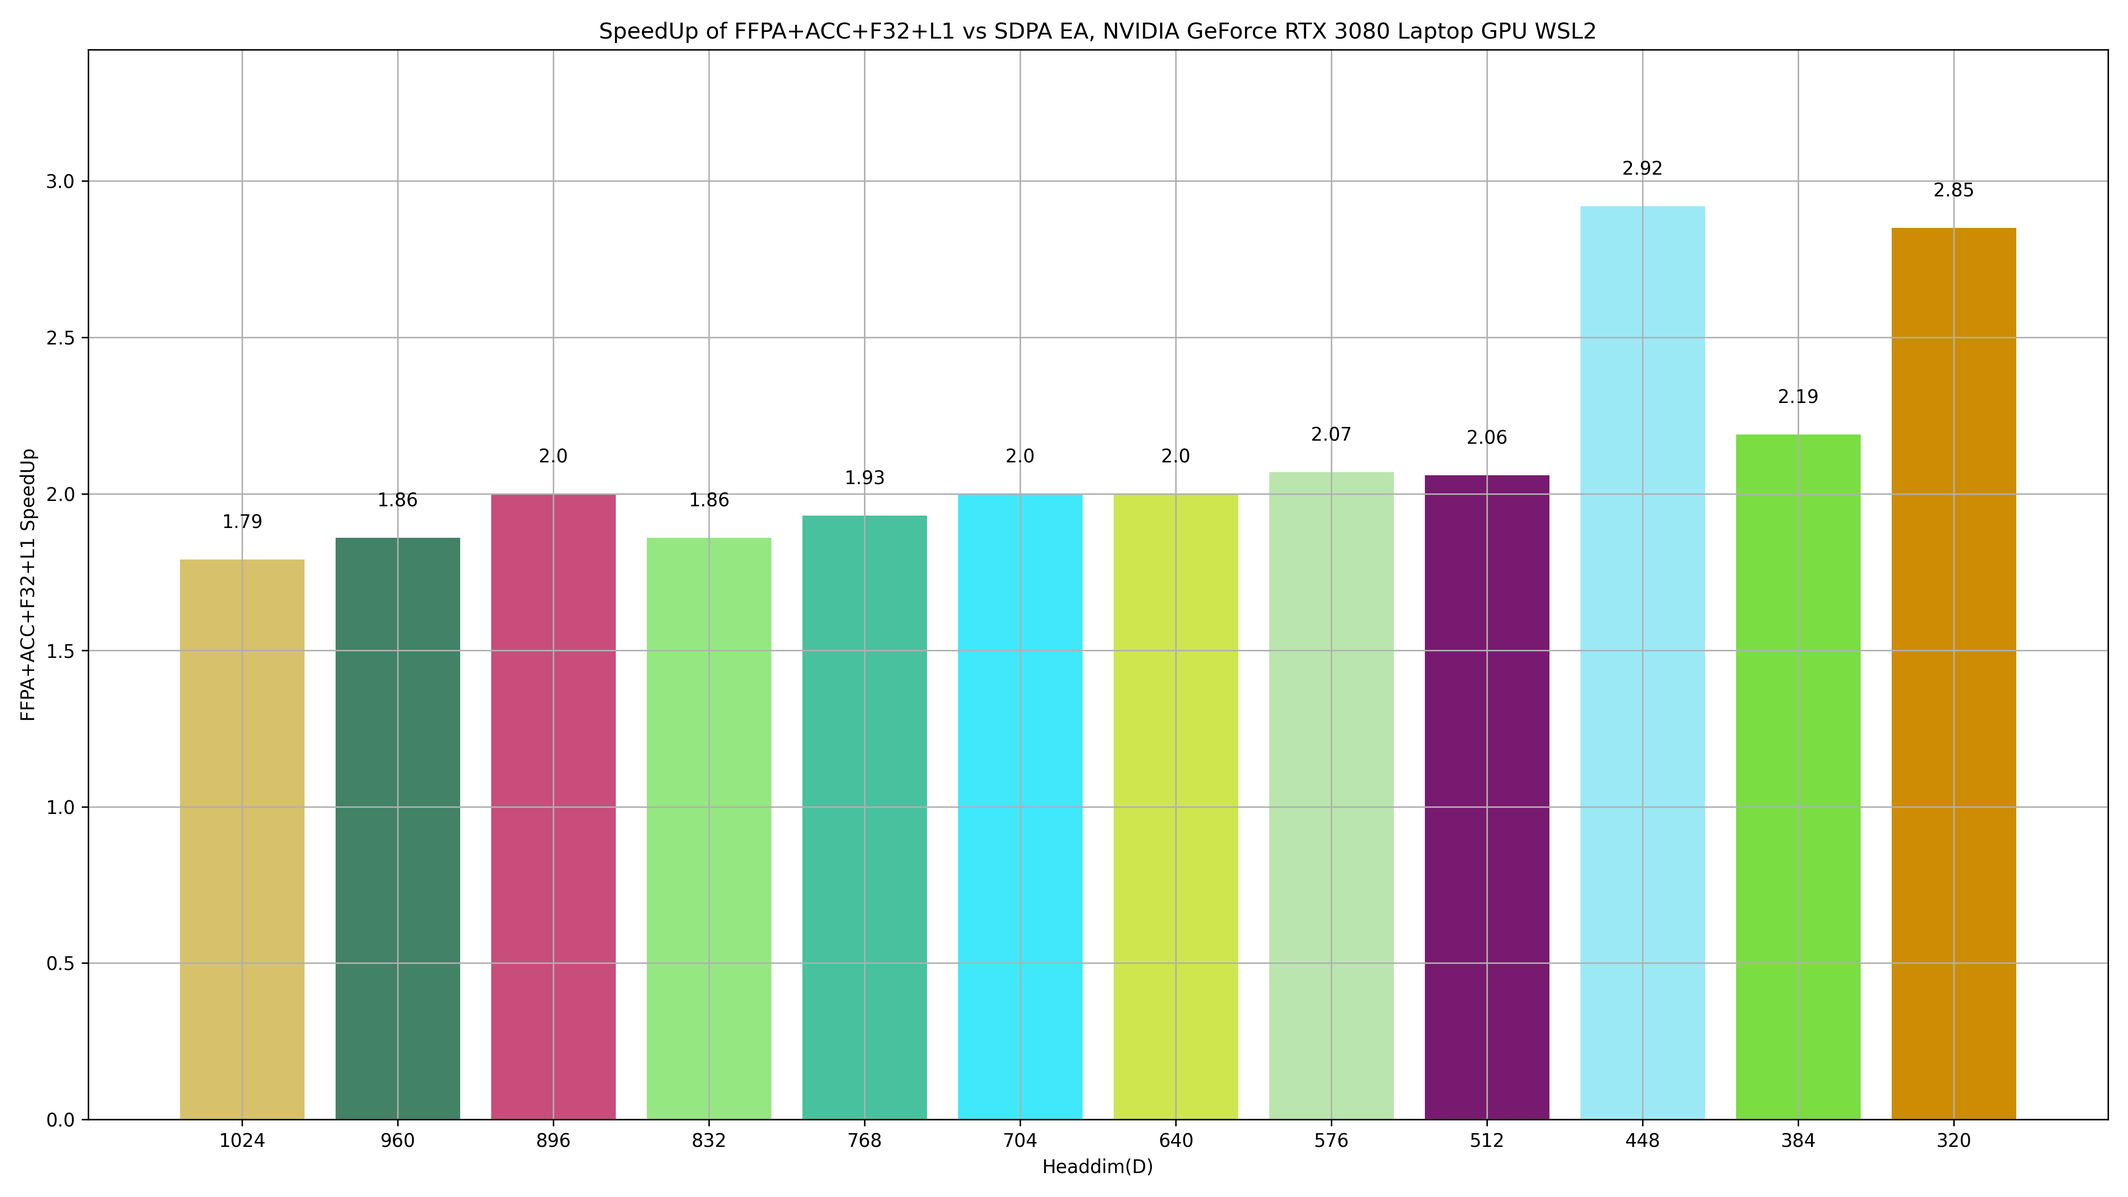
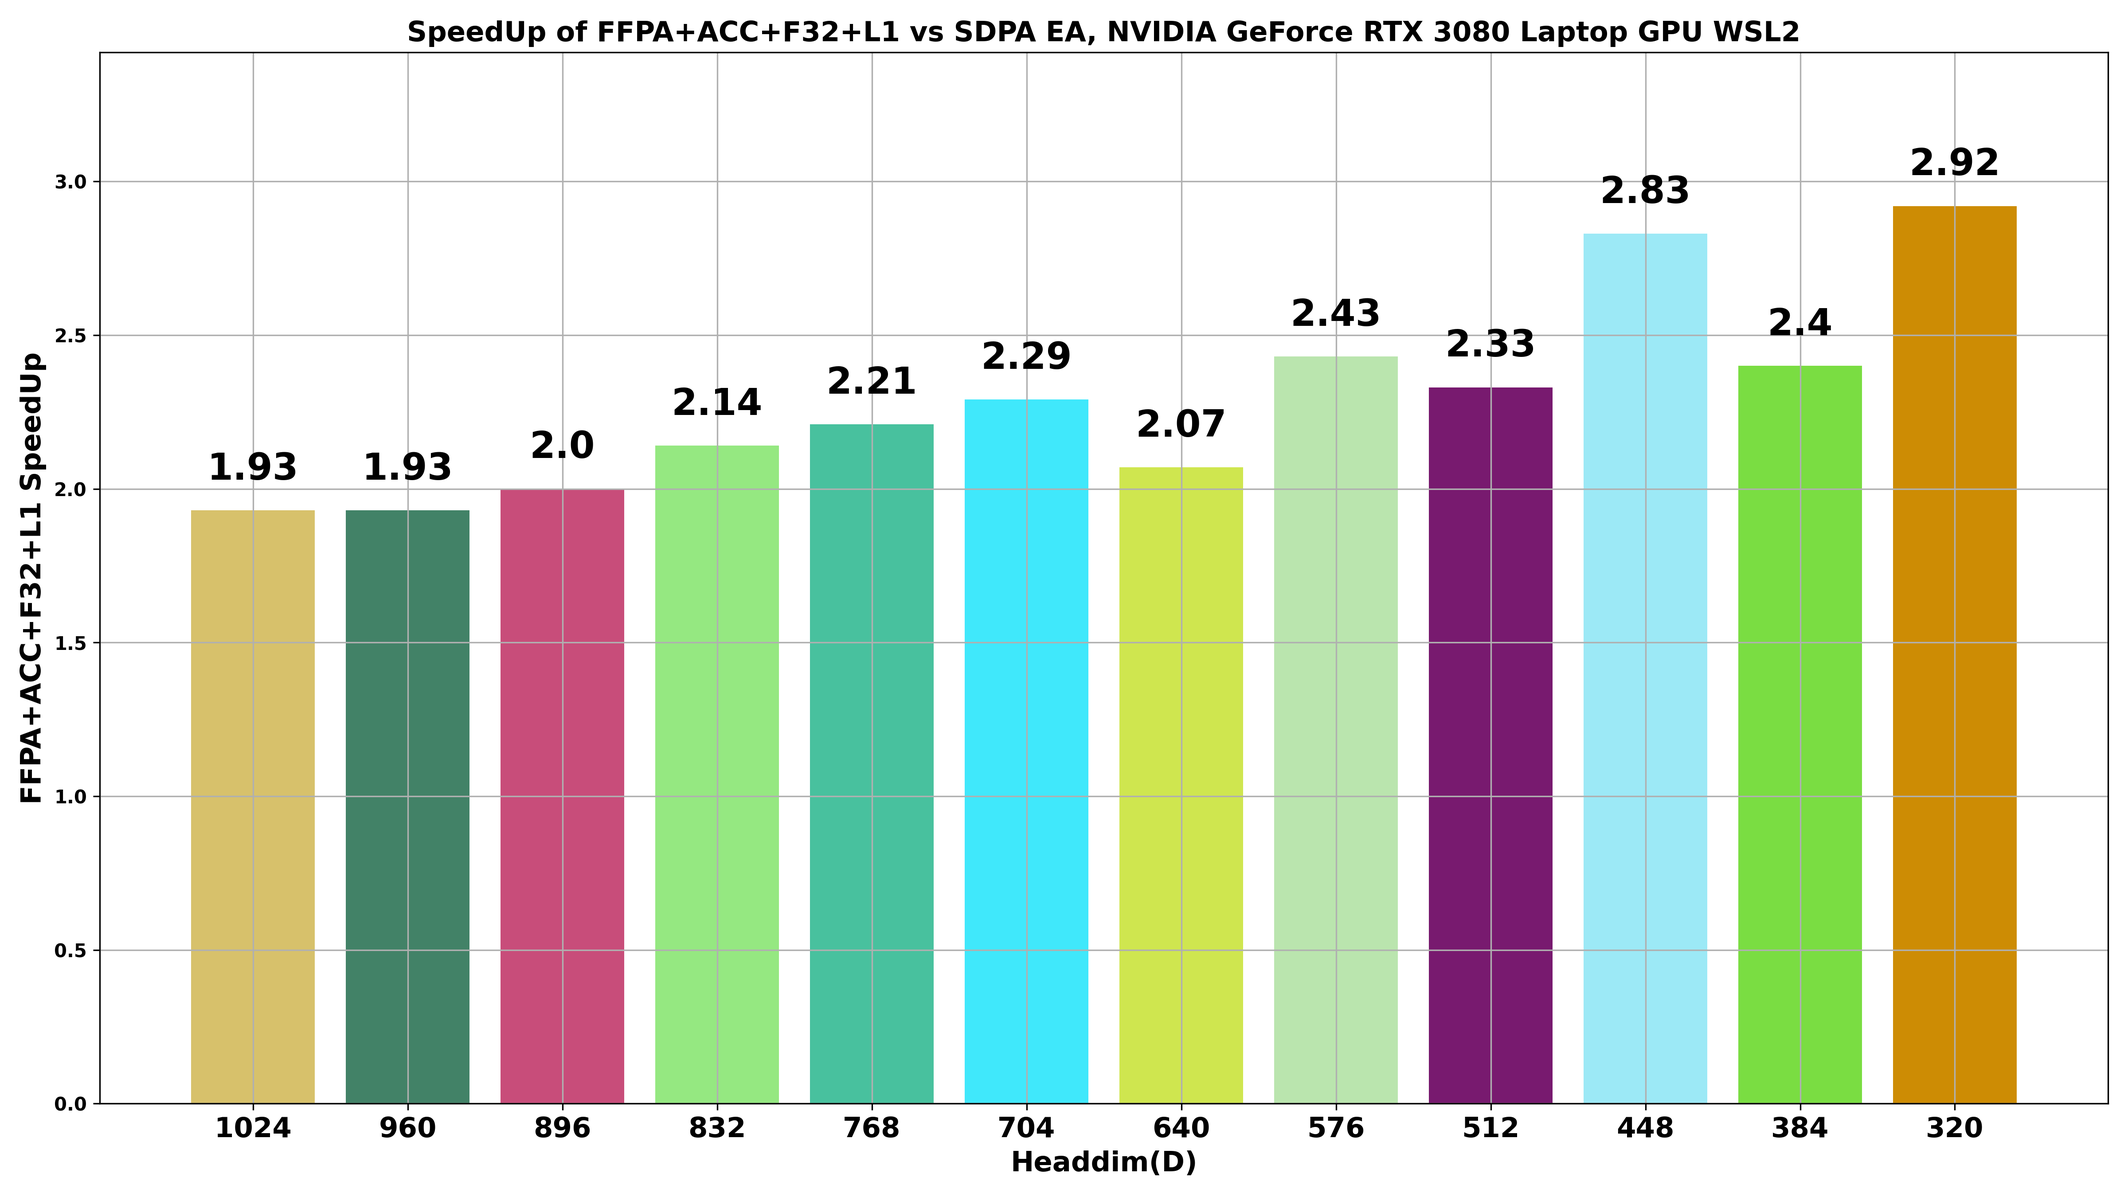
[bench] update perf plots for qkv swizzle (#38)
* Update README.md

* Update README.md

* Update README.md

* Update test.py

* Update README.md

* Update README.md

* Update README.md

* Update README.md

* Update test.py

* update perf plots

* update perf plots

diff --git a/env.py b/env.py
@@ -4,7 +4,7 @@ import torch
 
 
 class ENV(object):
-    # ENVs for pyffpa compiling
+    # ENVs for FFPA kernels compiling
 
     # Project dir, path to faster-prefill-attention
     PROJECT_DIR = os.path.dirname(os.path.abspath(__file__))
@@ -41,22 +41,30 @@ class ENV(object):
     ENABLE_FFPA_PREFETCH_QKV = bool(int(os.environ.get("ENABLE_FFPA_PREFETCH_QKV", 1)))
 
     # Enable QKV smem shared policy, default False (perfered for MMA & g2s overlap).
-    # Set it as True on low SRAM device.
-    ENABLE_FFPA_QKV_SMEM_SHARE = bool(int(os.environ.get("ENABLE_FFPA_QKV_SMEM_SHARE", 0)))
+    # Please, set it as True if you want to run FFPA on low SRAM device.
+    ENABLE_FFPA_QKV_SMEM_SHARE = bool(
+        int(os.environ.get("ENABLE_FFPA_QKV_SMEM_SHARE", 0))
+    )
 
     # Enable smem swizzle for Q, default True. True: bank conflicts free for Q smem
     # via swizzle; False: bank conflicts free for Q smem via padding.
-    ENABLE_FFPA_SMEM_SWIZZLE_Q = bool(int(os.environ.get("ENABLE_FFPA_SMEM_SWIZZLE_Q", 1)))
+    ENABLE_FFPA_SMEM_SWIZZLE_Q = bool(
+        int(os.environ.get("ENABLE_FFPA_SMEM_SWIZZLE_Q", 1))
+    )
 
     # Enable smem swizzle for K, default True. True: bank conflicts free for K smem
     # via swizzle; False: bank conflicts free for K smem via padding.
-    ENABLE_FFPA_SMEM_SWIZZLE_K = bool(int(os.environ.get("ENABLE_FFPA_SMEM_SWIZZLE_K", 1)))
+    ENABLE_FFPA_SMEM_SWIZZLE_K = bool(
+        int(os.environ.get("ENABLE_FFPA_SMEM_SWIZZLE_K", 1))
+    )
 
-    # Enable smem swizzle for V, default True. True: bank conflicts free for V smem
-    # via swizzle; False: bank conflicts free for V smem via padding. 
-    # FIXME(DefTruth):swizzle V seems can not get good performance. why? Will enable 
-    # it by default untill I have fixed the performance issue.
-    ENABLE_FFPA_SMEM_SWIZZLE_V = bool(int(os.environ.get("ENABLE_FFPA_SMEM_SWIZZLE_V", 1)))
+    # Enable smem swizzle for V, now default True. True: bank conflicts free for V smem
+    # via swizzle; False: bank conflicts free for V smem via padding. FIXME(DefTruth):
+    # swizzle V seems can not get good performance. why? Will enable it by default untill
+    # I have fixed the performance issue. (Fixed)
+    ENABLE_FFPA_SMEM_SWIZZLE_V = bool(
+        int(os.environ.get("ENABLE_FFPA_SMEM_SWIZZLE_V", 1))
+    )
 
     @classmethod
     def project_dir(cls):
@@ -93,19 +101,19 @@ class ENV(object):
     @classmethod
     def enable_prefetch_qkv(cls):
         return cls.ENABLE_FFPA_PREFETCH_QKV
-    
+
     @classmethod
     def enable_qkv_smem_share(cls):
         return cls.ENABLE_FFPA_QKV_SMEM_SHARE
-    
+
     @classmethod
     def enable_smem_swizzle_q(cls):
         return cls.ENABLE_FFPA_SMEM_SWIZZLE_Q
-    
+
     @classmethod
     def enable_smem_swizzle_k(cls):
         return cls.ENABLE_FFPA_SMEM_SWIZZLE_K
-    
+
     @classmethod
     def enable_smem_swizzle_v(cls):
         return cls.ENABLE_FFPA_SMEM_SWIZZLE_V
@@ -141,7 +149,7 @@ class ENV(object):
                     f"{name:<35}: {str(value):<5} -> command:"
                     f" export {name}={int(value)}"
                 )
-            except:
+            except Exception:
                 print(f"{name:<35}: {value}")
 
         pretty_print_line("FFPA-ATTN ENVs")

diff --git a/tests/test.py b/tests/test.py
@@ -394,26 +394,25 @@ def plot_speedup_bar(
 
     _ = plt.subplots(figsize=(16, 9))[1]  # fig, axs
     plt.subplots_adjust(left=0.04, right=0.99, top=0.95, bottom=0.07)
-    # The x-axis coordinates of the bar chart
     x = range(len(speedup))
     # Plot the bar chart, setting a different color for each bar
     random.seed(0)
     for i, value in enumerate(speedup):
         random_color = (random.random(), random.random(), random.random())
         plt.bar(i, value, color=random_color)
-    # Add the x-axis label
-    plt.xlabel("Headdim(D)")
-    plt.xticks(x, headdim)
-    # Add the y-axis label
-    plt.ylabel(f"{extra_tag.upper()} SpeedUp")
-    # Add the title
-    plt.title(f"SpeedUp of {extra_tag.upper()} vs SDPA EA, {ENV.get_device_name()}")
+    plt.xlabel("Headdim(D)", fontsize=15, fontweight="bold")
+    plt.xticks(x, headdim, fontsize=15, fontweight="bold")
+    plt.ylabel(f"{extra_tag.upper()} SpeedUp", fontsize=15, fontweight="bold")
+    plt.title(
+        f"SpeedUp of {extra_tag.upper()} vs SDPA EA, {ENV.get_device_name()}",
+        fontsize=15,
+        fontweight="bold",
+    )
     # Set the range of the y-axis, adjusted according to the data
     plt.ylim(0, max(speedup) + 0.5)
-    # Add data labels on each bar
+    plt.yticks(fontweight="bold")
     for i, v in enumerate(speedup):
-        plt.text(i, v + 0.1, str(v), ha="center")
-    # Show the grid lines for easy observation
+        plt.text(i, v + 0.1, str(v), ha="center", fontsize=20, fontweight="bold")
     plt.grid(True)
     # Display the graph
     device_name = ENV.get_device_name().replace(" ", "_")
@@ -441,17 +440,25 @@ def plot_tflops(level: str = "L1"):
     ax.set_title(
         f"FFPA {level} vs SDPA EA, {ENV.get_device_name()}, "
         f"B={B}, H={H}, N={N}, Warmup={args.warmup}, "
-        f"Iters={args.iters}"
+        f"Iters={args.iters}",
+        fontsize=15,
+        fontweight="bold",
     )
-    ax.set_xlabel("Headdim(D)")
-    ax.set_ylabel("TFLOPS")
+    ax.set_xlabel("Headdim(D)", fontsize=15, fontweight="bold")
+    ax.set_ylabel("TFLOPS", fontsize=15, fontweight="bold")
     ax.grid(True)
 
     get_best_tflops()
     new_statis_info = sort_tflops_by_headdim()
 
     ax.set_xticks(np.arange(0, len(new_statis_info["headdim"]), 1))
-    ax.set_xticklabels(new_statis_info["headdim"], rotation=45, ha="right")
+    ax.set_xticklabels(
+        new_statis_info["headdim"],
+        rotation=45,
+        ha="right",
+        fontsize=15,
+        fontweight="bold",
+    )
     exclude_tags = []
     exclude_tags.append("headdim")
     exclude_tags = set(exclude_tags)
@@ -487,6 +494,9 @@ def plot_tflops(level: str = "L1"):
                 ax.plot(tflops, label=tag, linewidth=4, color="red")
             else:
                 ax.plot(tflops, label=tag, linestyle="--")
+
+    for label in ax.get_yticklabels():
+        label.set_fontweight("bold")
 
     ax.legend()
     device_name = ENV.get_device_name().replace(" ", "_")

diff --git a/README.md b/README.md
@@ -11,11 +11,11 @@
   <img src=https://img.shields.io/badge/License-GPLv3.0-turquoise.svg >
  </div>
 
-🤖[WIP] **FFPA**: Yet antother **Faster Flash Prefill Attention** with **O(1) SRAM complexity** & **O(d/4) or O(1) register complexity** for large headdim (D > 256), almost **1.5x~2x** 🎉 faster than SDPA EA with or without MMA Acc F32 on many devices: [📈L20 ~1.7x↑🎉](#L1-bench-l20), [📈 A30 ~1.5x↑🎉](#L1-bench-a30), [📈3080 ~2.5x↑🎉](#L1-bench-3080), [📈4090 ~1.8x↑🎉](#L1-bench-4090). 
+🤖[WIP] **FFPA**: Yet antother **Faster Flash Prefill Attention** with **O(1) SRAM complexity** & **O(d/4) or O(1) register complexity** for large headdim (D > 256), almost **1.5x~2x** 🎉 faster than SDPA EA with or without MMA Acc F32 on many devices: [📈L20 ~1.9x↑🎉](#L1-bench-l20), [📈 A30 ~1.8x↑🎉](#L1-bench-a30), [📈3080 ~2.9x↑🎉](#L1-bench-3080), [📈4090 ~2.1x↑🎉](#L1-bench-4090). 
 
 <div align='center'>
-  <img src='https://github.com/user-attachments/assets/7dc42fa1-a10e-453c-8e2c-befba6f12719' width="407px">
-  <img src='https://github.com/user-attachments/assets/c0443e13-94a4-4d29-8f77-e326e62a668e' width="407px">
+  <img src='https://github.com/user-attachments/assets/447e2937-f7c8-47c8-8550-8c0c71b910e6' width="407px">
+  <img src='https://github.com/user-attachments/assets/65a8d564-8fa7-4d66-86b9-e238feb86143' width="407px">
 </div> 
 
 💡NOTE: This project is still in its early dev stages and now provides some kernels and benchmarks for reference. More features will be added in the future. (Welcome to 🌟👆🏻star this repo to support me ~)
@@ -37,10 +37,10 @@
 - [📖 Installation⚙](#install)
 - [📖 Python Testing👇](#python-test)
 - [📖 FFPA L1~L3 Design💡](#ffpa-design)
-- [📈 FFPA L1: L20 ~1.7x↑🎉](#L1-bench-l20)
-- [📈 FFPA L1: A30 ~1.5x↑🎉](#L1-bench-a30)
-- [📈 FFPA L1: 3080 ~2.5x↑🎉](#L1-bench-3080)
-- [📈 FFPA L1: 4090 ~1.8x↑🎉](#L1-bench-4090)
+- [📈 FFPA L1: L20 ~1.9x↑🎉](#L1-bench-l20)
+- [📈 FFPA L1: A30 ~1.8x↑🎉](#L1-bench-a30)
+- [📈 FFPA L1: 3080 ~2.9x↑🎉](#L1-bench-3080)
+- [📈 FFPA L1: 4090 ~2.1x↑🎉](#L1-bench-4090)
 
 ## 📖 FFPA L1~L3: FlashAttention + QKV Fine-grained Tiling at MMA level💡
 <div id="ffpa-design"></div>
@@ -92,6 +92,21 @@ python3 setup.py bdist_wheel && cd dist && python3 -m pip install *.whl # pip un
 
 ## 📖 FFPA L1 (Level 1): Benchmark 🎉🎉
 
+<!--
+![NVIDIA_A30](https://github.com/user-attachments/assets/69be99e4-977f-4a8c-bef5-9d6667241e23)
+![NVIDIA_A30_ffpa+acc+f16+L1_Speedup](https://github.com/user-attachments/assets/7e323005-4445-41af-8e94-6efb62ed2b77)
+![NVIDIA_A30_ffpa+acc+f32+L1_Speedup](https://github.com/user-attachments/assets/e314649e-82b5-414d-85c9-8b6fbf260138)
+![NVIDIA_GeForce_RTX_3080_Laptop_GPU_WSL2](https://github.com/user-attachments/assets/be071842-25a7-4477-acc8-14d6e2ff5a54)
+![NVIDIA_GeForce_RTX_3080_Laptop_GPU_WSL2_ffpa+acc+f16+L1_Speedup](https://github.com/user-attachments/assets/d157cd69-4444-4735-a691-edaaff408137)
+![NVIDIA_GeForce_RTX_3080_Laptop_GPU_WSL2_ffpa+acc+f32+L1_Speedup](https://github.com/user-attachments/assets/3ce47627-e79d-40ee-b753-bdd235603b7d)
+![NVIDIA_GeForce_RTX_4090](https://github.com/user-attachments/assets/cba2edce-ac0d-412e-823c-7eea2cc63f83)
+![NVIDIA_GeForce_RTX_4090_ffpa+acc+f16+L1_Speedup](https://github.com/user-attachments/assets/447e2937-f7c8-47c8-8550-8c0c71b910e6)
+![NVIDIA_GeForce_RTX_4090_ffpa+acc+f32+L1_Speedup](https://github.com/user-attachments/assets/65a8d564-8fa7-4d66-86b9-e238feb86143)
+![NVIDIA_L20](https://github.com/user-attachments/assets/6be1708c-9491-4dc8-92cc-a3d48a335784)
+![NVIDIA_L20_ffpa+acc+f16+L1_Speedup](https://github.com/user-attachments/assets/a4927108-3f97-4209-9b80-bb31ad271e04)
+![NVIDIA_L20_ffpa+acc+f32+L1_Speedup](https://github.com/user-attachments/assets/eeb9943f-919d-45d8-a8a6-e0f8874f4bcd)
+-->
+
 <div id="L1-bench-l20"></div>
 
 L1: level 1, O(2xBrx16)≈O(1) SRAM complexity, O(d/4) register complexity, the same GPU HBM memory complexity as FlashAttention. B=1, H=48, N=8192, **D=320-1024(FA2 not supported 👀)**. (Notes, `*`=MMA Acc F32, `^`=MMA Acc F16, Softmax Acc dtype is always be F32, T=TFLOPS, 👇Benchmark)
@@ -117,35 +132,35 @@ L1: level 1, O(2xBrx16)≈O(1) SRAM complexity, O(d/4) register complexity, the 
 |Speedup|1.86x|1.61x|1.78x|1.76x|1.87x|1.84x|1.89x|1.71x|1.74x|1.71x|1.85x|1.79x|
 
 <div align='center'>
-  <img src='https://github.com/user-attachments/assets/7881c7fc-aeb4-4556-92a0-901b5b25ee1b' width="407px">
-  <img src='https://github.com/user-attachments/assets/f530900d-0dff-4986-a7e7-47a47ba15556' width="407px">
+  <img src='https://github.com/user-attachments/assets/a4927108-3f97-4209-9b80-bb31ad271e04' width="407px">
+  <img src='https://github.com/user-attachments/assets/eeb9943f-919d-45d8-a8a6-e0f8874f4bcd' width="407px">
 </div> 
 
 <div id="L1-bench-a30"></div>
 
-- 📚 NVIDIA A30 (`*`=MMA Acc F32, `^`=MMA Acc F16, `T`=TFLOPS, **~1.5x↑🎉**)
+- 📚 NVIDIA A30 (`*`=MMA Acc F32, `^`=MMA Acc F16, `T`=TFLOPS, **~1.8x↑🎉**)
 
 |Algorithm|320|384|448|512|576|640|704|768|832|896|960|1024|
 |:---:|:---:|:---:|:---:|:---:|:---:|:---:|:---:|:---:|:---:|:---:|:---:|:---:|
 |SDPA EA|25T|25T|24T|24T|24T|24T|23T|22T|22T|22T|22T|18T|
-|FFPA L1*|36T|37T|35T|36T|35T|36T|35T|34T|34T|32T|34T|31T|
-|Speedup|1.44x|1.48x|1.46x|1.5x|1.46x|1.5x|1.52x|1.55x|1.55x|1.45x|1.55x|1.72x|
-|FFPA L1^|36T|36T|37T|37T|35T|35T|35T|35T|35T|34T|35T|32T|
-|Speedup|1.64x|1.68x|1.71x|1.67x|1.54x|1.54x|1.57x|1.64x|1.59x|1.59x|1.45x|1.72x|
+|FFPA L1*|45T|44T|44T|43T|43T|38T|37T|37T|37T|36T|33T|32T|
+|Speedup|1.8x|1.76x|1.83x|1.79x|1.79x|1.58x|1.61x|1.68x|1.68x|1.64x|1.5x|1.78x|
+|FFPA L1^|48T|46T|45T|43T|44T|44T|44T|38T|37T|36T|40T|34T|
+|Speedup|1.92x|1.84x|1.88x|1.79x|1.83x|1.83x|1.91x|1.73x|1.68x|1.64x|1.82x|1.89x|
 
-- 📚 NVIDIA A30 (`*`=MMA Acc: QK F32 + PV F16, `^`=MMA Acc F16, `T`=TFLOPS, **~1.7x↑🎉**)
+- 📚 NVIDIA A30 (`*`=MMA Acc: QK F32 + PV F16, `^`=MMA Acc F16, `T`=TFLOPS, **~1.9x↑🎉**)
 
 |Algorithm|320|384|448|512|576|640|704|768|832|896|960|1024|
 |:---:|:---:|:---:|:---:|:---:|:---:|:---:|:---:|:---:|:---:|:---:|:---:|:---:|
 |SDPA EA|25T|25T|24T|24T|24T|24T|23T|22T|22T|22T|22T|18T|
-|FFPA L1*|42T|41T|39T|38T|37T|36T|36T|35T|34T|33T|31T|30T|
-|Speedup|1.68x|1.64x|1.62x|1.58x|1.54x|1.5x|1.57x|1.59x|1.55x|1.5x|1.41x|1.67x|
-|FFPA L1^|41T|42T|41T|40T|37T|37T|36T|36T|35T|35T|32T|31T|
-|Speedup|1.64x|1.68x|1.71x|1.67x|1.54x|1.54x|1.57x|1.64x|1.59x|1.59x|1.45x|1.72x|
+|FFPA L1*|48T|46T|46T|43T|44T|38T|38T|38T|37T|36T|40T|34T|
+|Speedup|1.92x|1.84x|1.92x|1.79x|1.83x|1.58x|1.65x|1.73x|1.68x|1.64x|1.82x|1.89x|
+|FFPA L1^|48T|46T|45T|43T|44T|44T|44T|38T|37T|36T|39T|34T|
+|Speedup|1.92x|1.84x|1.88x|1.79x|1.83x|1.83x|1.91x|1.73x|1.68x|1.64x|1.77x|1.89x|
 
 <div align='center'>
-  <img src='https://github.com/user-attachments/assets/7437341e-207d-4e35-b13f-b5834957591f' width="407px">
-  <img src='https://github.com/user-attachments/assets/014df0f8-8283-4270-812e-a43bdf10366f' width="407px">
+  <img src='https://github.com/user-attachments/assets/7e323005-4445-41af-8e94-6efb62ed2b77' width="407px">
+  <img src='https://github.com/user-attachments/assets/e314649e-82b5-414d-85c9-8b6fbf260138' width="407px">
 </div> 
 
 <div id="L1-bench-3080"></div>
@@ -154,25 +169,25 @@ L1: level 1, O(2xBrx16)≈O(1) SRAM complexity, O(d/4) register complexity, the 
 
 |Algorithm|320|384|448|512|576|640|704|768|832|896|960|1024|
 |:---:|:---:|:---:|:---:|:---:|:---:|:---:|:---:|:---:|:---:|:---:|:---:|:---:|
-|SDPA EA|13T|16T|12T|16T|15T|15T|14T|14T|14T|14T|14T|14T|
-|FFPA L1*|33T|31T|31T|28T|28T|27T|26T|25T|25T|24T|23T|23T|
-|Speedup|2.54x|1.94x|2.58x|1.75x|1.87x|1.8x|1.86x|1.79x|1.79x|1.71x|1.64x|1.64x|
-|FFPA L1^|41T|40T|39T|38T|37T|36T|36T|34T|33T|32T|30T|30T|
-|Speedup|3.15x|2.5x|3.25x|2.38x|2.47x|2.4x|2.57x|2.43x|2.36x|2.29x|2.14x|2.14x|
+|SDPA EA|13T|16T|11T|16T|15T|15T|15T|15T|14T|14T|14T|14T|
+|FFPA L1*|33T|31T|30T|30T|30T|27T|27T|26T|26T|26T|26T|25T|
+|Speedup|2.54x|1.94x|2.73x|1.88x|2.0x|1.8x|1.8x|1.73x|1.86x|1.86x|1.86x|1.79x|
+|FFPA L1^|43T|41T|39T|39T|39T|39T|39T|36T|34T|33T|31T|33T|
+|Speedup|3.31x|2.56x|3.55x|2.44x|2.6x|2.6x|2.6x|2.4x|2.43x|2.36x|2.21x|2.36x|
 
-- 📚 NVIDIA RTX 3080 Laptop (`*`=MMA Acc: QK F32 + PV F16, `^`=MMA Acc F16, `T`=TFLOPS, **~2.8x↑🎉**)
+- 📚 NVIDIA RTX 3080 Laptop (`*`=MMA Acc: QK F32 + PV F16, `^`=MMA Acc F16, `T`=TFLOPS, **~2.9x↑🎉**)
 
 |Algorithm|320|384|448|512|576|640|704|768|832|896|960|1024|
 |:---:|:---:|:---:|:---:|:---:|:---:|:---:|:---:|:---:|:---:|:---:|:---:|:---:|
-|SDPA EA|13T|16T|12T|16T|15T|15T|15T|15T|14T|14T|14T|14T|
-|FFPA L1*|37T|35T|35T|33T|31T|30T|30T|29T|26T|28T|26T|25T|
-|Speedup|2.85x|2.19x|2.92x|2.06x|2.07x|2.0x|2.0x|1.93x|1.86x|2.0x|1.86x|1.79x|
-|FFPA L1^|41T|41T|40T|39T|38T|37T|36T|35T|32T|31T|30T|31T|
-|Speedup|3.15x|2.56x|3.33x|2.44x|2.53x|2.47x|2.4x|2.33x|2.29x|2.21x|2.14x|2.21x|
+|SDPA EA|13T|15T|12T|15T|14T|15T|14T|14T|14T|14T|14T|14T|
+|FFPA L1*|38T|36T|34T|35T|34T|31T|32T|31T|30T|28T|27T|27T|
+|Speedup|2.92x|2.4x|2.83x|2.33x|2.43x|2.07x|2.29x|2.21x|2.14x|2.0x|1.93x|1.93x|
+|FFPA L1^|44T|41T|39T|39T|38T|39T|39T|36T|34T|32T|31T|33T|
+|Speedup|3.38x|2.73x|3.25x|2.6x|2.71x|2.6x|2.79x|2.57x|2.43x|2.29x|2.21x|2.36x|
 
 <div align='center'>
-  <img src='https://github.com/user-attachments/assets/7dc42fa1-a10e-453c-8e2c-befba6f12719' width="407px">
-  <img src='https://github.com/user-attachments/assets/c0443e13-94a4-4d29-8f77-e326e62a668e' width="407px">
+  <img src='https://github.com/user-attachments/assets/d157cd69-4444-4735-a691-edaaff408137' width="407px">
+  <img src='https://github.com/user-attachments/assets/3ce47627-e79d-40ee-b753-bdd235603b7d' width="407px">
 </div> 
 
 <div id="L1-bench-4090"></div>
@@ -181,25 +196,25 @@ L1: level 1, O(2xBrx16)≈O(1) SRAM complexity, O(d/4) register complexity, the 
 
 |Algorithm|320|384|448|512|576|640|704|768|832|896|960|1024|
 |:---:|:---:|:---:|:---:|:---:|:---:|:---:|:---:|:---:|:---:|:---:|:---:|:---:|
-|SDPA EA|82T|93T|85T|85T|79T|81T|79T|80T|79T|80T|78T|78T|
-|FFPA L1*|145T|148T|143T|139T|140T|139T|138T|135T|134T|134T|132T|129T|
-|Speedup|1.77x|1.59x|1.68x|1.64x|1.77x|1.72x|1.75x|1.69x|1.7x|1.68x|1.69x|1.65x|
-|FFPA L1^|176T|174T|171T|174T|173T|170T|169T|167T|164T|163T|162T|159T|
-|Speedup|2.15x|1.87x|2.01x|2.05x|2.19x|2.1x|2.14x|2.09x|2.08x|2.04x|2.08x|2.04x|
+|SDPA EA|81T|94T|85T|85T|79T|81T|79T|80T|79T|80T|78T|78T|
+|FFPA L1*|149T|150T|150T|150T|150T|140T|140T|140T|139T|139T|137T|134T|
+|Speedup|1.84x|1.6x|1.76x|1.76x|1.9x|1.73x|1.77x|1.75x|1.76x|1.74x|1.76x|1.72x|
+|FFPA L1^|194T|194T|189T|191T|197T|188T|184T|180T|177T|172T|171T|171T|
+|Speedup|2.4x|2.06x|2.22x|2.25x|2.49x|2.32x|2.33x|2.25x|2.24x|2.15x|2.19x|2.19x|
 
-- 📚 NVIDIA RTX 4090 (`*`=MMA Acc: QK F32 + PV F16, `^`=MMA Acc F16, `T`=TFLOPS, **~2x↑🎉**)
+- 📚 NVIDIA RTX 4090 (`*`=MMA Acc: QK F32 + PV F16, `^`=MMA Acc F16, `T`=TFLOPS, **~2.1x↑🎉**)
 
 |Algorithm|320|384|448|512|576|640|704|768|832|896|960|1024|
 |:---:|:---:|:---:|:---:|:---:|:---:|:---:|:---:|:---:|:---:|:---:|:---:|:---:|
-|SDPA EA|82T|93T|85T|85T|79T|81T|79T|80T|79T|80T|78T|78T|
-|FFPA L1*|170T|170T|160T|159T|156T|154T|153T|152T|151T|149T|143T|136T|
-|Speedup|2.07x|1.83x|1.88x|1.87x|1.97x|1.9x|1.94x|1.9x|1.91x|1.86x|1.83x|1.74x|
-|FFPA L1^|175T|173T|171T|174T|171T|170T|169T|167T|164T|164T|162T|157T|
-|Speedup|2.13x|1.86x|2.01x|2.05x|2.16x|2.1x|2.14x|2.09x|2.08x|2.05x|2.08x|2.01x|
+|SDPA EA|82T|92T|85T|84T|78T|81T|79T|80T|78T|79T|77T|78T|
+|FFPA L1*|176T|170T|171T|171T|171T|161T|160T|161T|160T|158T|165T|164T|
+|Speedup|2.15x|1.85x|2.01x|2.04x|2.19x|1.99x|2.03x|2.01x|2.05x|2.0x|2.14x|2.1x|
+|FFPA L1^|200T|191T|189T|191T|188T|188T|186T|179T|175T|173T|172T|170T|
+|Speedup|2.44x|2.08x|2.22x|2.27x|2.41x|2.32x|2.35x|2.24x|2.24x|2.19x|2.23x|2.18x|
 
 <div align='center'>
-  <img src='https://github.com/user-attachments/assets/5699465b-03b8-460c-8d9e-7b84bad25d85' width="407px">
-  <img src='https://github.com/user-attachments/assets/083a3c6c-1afb-4fc5-9622-34ca22129627' width="407px">
+  <img src='https://github.com/user-attachments/assets/447e2937-f7c8-47c8-8550-8c0c71b910e6' width="407px">
+  <img src='https://github.com/user-attachments/assets/65a8d564-8fa7-4d66-86b9-e238feb86143' width="407px">
 </div> 
 
 ## 📖 Python Testing
